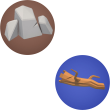
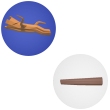
New initialization data cleanup New resources

diff --git a/api/initializeTestData.js b/api/initializeTestData.js
@@ -10,7 +10,7 @@ module.exports = async function (req, res) {
 
     console.log("Entering initializeTestData");
     var bodyjson = JSON.parse(req.body);
-    console.log("bodyjson = " + bodyjson);
+    // console.log("bodyjson = " + bodyjson);
     var player = bodyjson.player;
     console.log("player = " + player);
     // var resourceId = bodyjson.resourceId;
@@ -30,72 +30,132 @@ module.exports = async function (req, res) {
     var dciContract = await Contracts.DecentracraftItem;//.deployed();
     var mockRNGContract = await Contracts.MockRNG;//.deployed();
 
+    
+    //Send ethers to rng contract 
+    var sendEthersresult = await Contracts.sendEthers(dciContract.options.address, ownerKey, "0.5");
+    // console.log("Ethers sent = " + sendEthersresult);   
+
+    ////////////***************************************************************************           Resources */
     var createFunction = await decentracraftWorld.methods.create('', false);
     var result = await Contracts.sendTransaction(decentracraftWorld, createFunction, ownerKey);
-    // console.log(result);
     let woodTypeID = extractTokenID(result);
     console.log("Wood ID = " + woodTypeID);
     result = await Contracts.sendTransaction(decentracraftWorld, createFunction, ownerKey);
-    // console.log(result);
-    let resourceTypeID = extractTokenID(result);
-    console.log("Rock ID = " + resourceTypeID);
+    let rockTypeID = extractTokenID(result);
+    console.log("Rock ID = " + rockTypeID);
     result = await Contracts.sendTransaction(decentracraftWorld, createFunction, ownerKey);
-    // console.log(result);
-    resourceTypeID = extractTokenID(result);
-    console.log("Gold ID = " + resourceTypeID);
+    let goldTypeID = extractTokenID(result);
+    console.log("Gold ID = " + goldTypeID);
     result = await Contracts.sendTransaction(decentracraftWorld, createFunction, ownerKey);
-    // console.log(result);
-    resourceTypeID = extractTokenID(result);
-    console.log("Diamond ID = " + resourceTypeID);
+    let diamondTypeID = extractTokenID(result);
+    console.log("Diamond ID = " + diamondTypeID);
     result = await Contracts.sendTransaction(decentracraftWorld, createFunction, ownerKey);
-    // console.log(result);
-    resourceTypeID = extractTokenID(result);
-    console.log("Silicon ID = " + resourceTypeID);
+    let siliconTypeID = extractTokenID(result);
+    console.log("Silicon ID = " + siliconTypeID);
+    result = await Contracts.sendTransaction(decentracraftWorld, createFunction, ownerKey);
+    let ironTypeID = extractTokenID(result);
+    console.log("Iron ID = " + ironTypeID);
 
+    createFunction = await decentracraftWorld.methods.setDailySupply(woodTypeID, 2000);
+    result = await Contracts.sendTransaction(decentracraftWorld, createFunction, ownerKey);
+    createFunction = await decentracraftWorld.methods.setDailySupply(rockTypeID, 1500);
+    result = await Contracts.sendTransaction(decentracraftWorld, createFunction, ownerKey);
+    createFunction = await decentracraftWorld.methods.setDailySupply(ironTypeID, 900);
+    result = await Contracts.sendTransaction(decentracraftWorld, createFunction, ownerKey);
+    createFunction = await decentracraftWorld.methods.setDailySupply(goldTypeID, 70);
+    result = await Contracts.sendTransaction(decentracraftWorld, createFunction, ownerKey);
+    createFunction = await decentracraftWorld.methods.setDailySupply(diamondTypeID, 15);
+    result = await Contracts.sendTransaction(decentracraftWorld, createFunction, ownerKey);
+    createFunction = await decentracraftWorld.methods.setDailySupply(siliconTypeID, 400);
+    result = await Contracts.sendTransaction(decentracraftWorld, createFunction, ownerKey);
+
+    ////////////***************************************************************************           Items */
     let hammerUri = ServerPublicURL + 'hammer.json';
     createFunction = await decentracraftWorld.methods.create(hammerUri, true);
     result = await Contracts.sendTransaction(decentracraftWorld, createFunction, ownerKey);
-    // console.log(result);
     let hammerTypeID = extractTokenID(result);
     console.log("Hammer ID = " + hammerTypeID);
     
     let swordUri = ServerPublicURL + 'sword.json';
     createFunction = await decentracraftWorld.methods.create(swordUri, true);
     result = await Contracts.sendTransaction(decentracraftWorld, createFunction, ownerKey);
-    // console.log(result);
-    resourceTypeID = extractTokenID(result);
-    console.log("Sword ID = " + resourceTypeID);
+    let swordTypeID = extractTokenID(result);
+    console.log("Sword ID = " + swordTypeID);
     
     let stickUri = ServerPublicURL + 'stick.json';
     createFunction = await decentracraftWorld.methods.create(stickUri, true);
     result = await Contracts.sendTransaction(decentracraftWorld, createFunction, ownerKey);
-    // console.log(result);
-    resourceTypeID = extractTokenID(result);
-    console.log("Computer Chip ID = " + resourceTypeID);
+    let stickTypeID = extractTokenID(result);
+    console.log("Stick ID = " + stickTypeID);
 
-    createFunction = await decentracraftWorld.methods.setDailySupply(woodTypeID, 2000);
+    let axeUri = ServerPublicURL + 'axe.json';
+    createFunction = await decentracraftWorld.methods.create(axeUri, true);
+    result = await Contracts.sendTransaction(decentracraftWorld, createFunction, ownerKey);
+    let axeTypeID = extractTokenID(result);
+    console.log("Axe ID = " + axeTypeID);
+
+    let computerChipUri = ServerPublicURL + 'computerchip.json';
+    createFunction = await decentracraftWorld.methods.create(computerChipUri, true);
+    result = await Contracts.sendTransaction(decentracraftWorld, createFunction, ownerKey);
+    let computerChipTypeID = extractTokenID(result);
+    console.log("Computer Chip ID = " + computerChipTypeID);
+
+    let hammerAttributes = '{"strength": "6","power": "6","attack": "3","defense": "1","speed": "1"}';
+    let swordAttributes = '{"strength": "4","power": "3","attack": "6","defense": "3","speed": "5"}';
+    let stickAttributes = '{"strength": "1","power": "1","attack": "1","defense": "1","speed": "3"}';
+    let axeAttributes = '{"strength": "5","power": "5","attack": "4","defense": "1","speed": "2"}';
+    let computeChipAttributes = '{"frequency": "100","processors": "1","threads": "1","tdp": "200"}';
+
+    ////////////***************************************************************************           Packages */
+    //Create Common Resources Package
+    createFunction = await decentracraftWorld.methods.addResourcesPackage(web3.utils.toWei("0.5","ether"), [woodTypeID], [100]);
+    result = await Contracts.sendTransaction(decentracraftWorld, createFunction, ownerKey);
+    createFunction = await decentracraftWorld.methods.setResourcesNFTsMeta(0, [stickTypeID], [stickAttributes], [stickUri], [1000], [10]);
     result = await Contracts.sendTransaction(decentracraftWorld, createFunction, ownerKey);
 
-    let hammerAttributes = '{"attack": "6","defense": "1","speed": "1"}';
-    //Create Resource Package
-    createFunction = await decentracraftWorld.methods.addResourcesPackage(web3.utils.toWei("0.5","ether"), [woodTypeID], [1000]);
+    //Create Basic Resources Package
+    createFunction = await decentracraftWorld.methods.addResourcesPackage(web3.utils.toWei("0.9","ether"), [rockTypeID, ironTypeID], [60, 35]);
     result = await Contracts.sendTransaction(decentracraftWorld, createFunction, ownerKey);
-    // console.log(result);
-    createFunction = await decentracraftWorld.methods.setResourcesNFTsMeta(0, [hammerTypeID], [hammerAttributes], [hammerUri], [100000], [100]);
+    createFunction = await decentracraftWorld.methods.setResourcesNFTsMeta(1, [hammerTypeID, axeTypeID], [hammerAttributes, axeAttributes], 
+                                                                                    [hammerUri, axeUri], [200, 150], [5, 5]);
     result = await Contracts.sendTransaction(decentracraftWorld, createFunction, ownerKey);
-    // console.log(result);
 
+    //Create Valuable Resources Package
+    createFunction = await decentracraftWorld.methods.addResourcesPackage(web3.utils.toWei("1.7","ether"), [goldTypeID, diamondTypeID], [5, 1]);
+    result = await Contracts.sendTransaction(decentracraftWorld, createFunction, ownerKey);
+    createFunction = await decentracraftWorld.methods.setResourcesNFTsMeta(2, [swordTypeID], [swordAttributes], [swordUri], [80], [2]);
+    result = await Contracts.sendTransaction(decentracraftWorld, createFunction, ownerKey);
+
+    ////////////***************************************************************************           Reserve to wholesellers */
     createFunction = await decentracraftWorld.methods.reserveResources(0, reservedToPublicKey);
     result = await Contracts.sendTransaction(decentracraftWorld, createFunction, ownerKey);
-    // console.log(result);
 
+    createFunction = await decentracraftWorld.methods.reserveResources(1, reservedToPublicKey);
+    result = await Contracts.sendTransaction(decentracraftWorld, createFunction, ownerKey);
+
+    createFunction = await decentracraftWorld.methods.reserveResources(2, reservedToPublicKey);
+    result = await Contracts.sendTransaction(decentracraftWorld, createFunction, ownerKey);
+
+    ////////////***************************************************************************           Reward to player */
     var contractFunction = await decentracraftWorld.methods.rewardPlayer(0, rewardRatio, player);
-    result = await Contracts.sendTransaction(decentracraftWorld, contractFunction, reservedToKey);  
-    // console.log(result);
+    result = await Contracts.sendTransaction(decentracraftWorld, contractFunction, reservedToKey); 
     var queryID = extractQueryID(result);  
-    // console.log("queryID = " + queryID);
+    // console.log("queryID = " + queryID);    
+    contractFunction = await mockRNGContract.methods.randomReceived(queryID, 100000);
+    result = await Contracts.sendTransaction(mockRNGContract, contractFunction, ownerKey);   
     
-    contractFunction = await mockRNGContract.methods.randomReceived(queryID, 100);
+    contractFunction = await decentracraftWorld.methods.rewardPlayer(1, rewardRatio, player);
+    result = await Contracts.sendTransaction(decentracraftWorld, contractFunction, reservedToKey); 
+    queryID = extractQueryID(result);  
+    // console.log("queryID = " + queryID);    
+    contractFunction = await mockRNGContract.methods.randomReceived(queryID, 100000);
+    result = await Contracts.sendTransaction(mockRNGContract, contractFunction, ownerKey);   
+    
+    contractFunction = await decentracraftWorld.methods.rewardPlayer(2, rewardRatio, player);
+    result = await Contracts.sendTransaction(decentracraftWorld, contractFunction, reservedToKey); 
+    queryID = extractQueryID(result);  
+    // console.log("queryID = " + queryID);    
+    contractFunction = await mockRNGContract.methods.randomReceived(queryID, 100000);
     result = await Contracts.sendTransaction(mockRNGContract, contractFunction, ownerKey);   
     
     res.json(result);

diff --git a/app/contracts.js b/app/contracts.js
@@ -62,11 +62,6 @@ var abis = [];
 exports.loadContracts = async function loadContracts(){
     console.log("Entering loadContracts");
     networkId = await web3.eth.net.getId();
-    // networkName = await web3.eth.net.getName();
-    // console.log("networkName = " + networkName + " , networkId = " + networkId);
-    // Load contracts from build
-    // console.log("buildFiles size = " + buildFiles.length);
-    // buildFiles.forEach(abiFile => {
     for(var i=0; i < buildFiles.length; i++){
         var abiFile = buildFiles[i];
         // console.log("abiFile = " + abiFile);
@@ -86,28 +81,8 @@ exports.loadContracts = async function loadContracts(){
         const deployedAddress = contractABI.networks[networkId].address;
         console.log("Contract " + contractABI.contractName + " address = " + deployedAddress);
 
-        // var contract = Contract(contractABI);
-        // contract.setProvider(provider);
-        // // contract.setNetwork(networkId);
-        // contract.detectNetwork();
-        // var contractObj = await contract.deployed();
-
-        // console.log("Contract address = " + contract.address);
-        // var contractObj = Contract(contractABI);
         var contractObj = new web3.eth.Contract(contractABI.abi, deployedAddress, {from:ownerAccount.address});
-
-        //contractObj.setProvider(provider);
-        //console.log("Contract Obj address = " + contractObj.address);
-        //dirty hack for web3@1.0.0 support for localhost testrpc, see https://github.com/trufflesuite/truffle-contract/issues/56#issuecomment-331084530
-        // if (typeof contractObj.currentProvider.sendAsync !== "function") {
-        //     contractObj.currentProvider.sendAsync = function() {
-        //         return contractObj.currentProvider.send.apply(
-        //             contractObj.currentProvider, arguments
-        //         );
-        //     };
-        // }
         
-        //contractObj.detectNetwork();
         exports[abiFile.split(".")[0]] = contractObj;
     }
 }
@@ -155,5 +130,42 @@ async function sendTransaction(contract, contractFunction, ownerKey, value="0"){
     // console.log(parsedLogs);
     return parsedLogs;
 }
-
 exports.sendTransaction = sendTransaction;
+
+async function sendEthers(address, ownerKey, value){
+    
+    // console.log("Sending Transaction");
+    var ownerAccount = await web3.eth.accounts.privateKeyToAccount(ownerKey);
+    // console.log("ownerAccount.address: " + ownerAccount.address);
+    let nonce = await web3.eth.getTransactionCount(ownerAccount.address);
+    // console.log("Nonce: " + nonce);
+
+    let estimatedGas = 3000000;
+    // console.log("Estimated Gas: " + estimatedGas);
+
+    let gasPrice = await web3.eth.getGasPrice();
+    // console.log("Gas Price : " + gasPrice); 
+
+    const txParams = {
+        chainId: networkId,
+        "gasPrice": web3.utils.toHex(gasPrice),
+        "gasLimit": web3.utils.toHex(estimatedGas),
+        "to": address,
+        "from": ownerAccount.address,
+        "value": web3.utils.toHex(web3.utils.toWei(value,"ether")),
+        "nonce": '0x' + nonce.toString(16)
+    };
+    
+    const tx = new Tx(txParams, {'chain':'ropsten'});//, hardfork: 'constantinople'});
+    const privateKeyBuffer = Buffer.from(ownerKey.split("0x")[1], 'hex');
+    tx.sign(privateKeyBuffer); // Transaction Signing here
+
+    const serializedTx = tx.serialize();
+
+    let receipt = await web3.eth.sendSignedTransaction('0x' + serializedTx.toString('hex'));//, {from: ownerAccount.address});//, value: web3.utils.toHex(web3.utils.toWei("0.1","ether"))});    
+    const txdecoder = new LogDecoder.LogDecoder(abis);
+    const parsedLogs = txdecoder.decodeLogs(receipt.logs);
+    // console.log(parsedLogs);
+    return parsedLogs;
+}
+exports.sendEthers = sendEthers;

diff --git a/migrations/2_deploy_contracts.js b/migrations/2_deploy_contracts.js
@@ -5,18 +5,7 @@ var ProvableRNG = artifacts.require("./Utils/ProvableRNG.sol");
 var MockRNG = artifacts.require("./Utils/MockRNG.sol");
 
 module.exports = function(deployer) {
-  //var dci = await deployer.deploy(DecentracraftItem);
-  //deployer.deploy(Decentracraft, dci);
-
-  // var dci = await DecentracraftItem.new();//deployer.deploy(DecentracraftItem);
-  // var dcc = await Decentracraft.new(dci);//deployer.deploy(Decentracraft, dci);
-  // var rng = await ProvableRNG.new(ProvableRNG);//deployer.deploy(ProvableRNG);
-  // var dccworld = await DecentracraftWorld.new(dcc, rng);//deployer.deploy(DecentracraftWorld, dcc, rng);
-  // await dcc.setOwner(dccworld);
-
   process.env.NETWORK = deployer.network;
-  
-  // console.log("deployer.network = " + deployer.network);
 
   deployer.deploy(DecentracraftItem).then(function() {
     return DecentracraftItem.deployed();
@@ -35,7 +24,6 @@ module.exports = function(deployer) {
       return deployer.deploy(ProvableRNG);
     }
   }).then(function() {
-    // console.log("Decentracraft = " + Decentracraft.address);
     if(deployer.network != "ropsten"){
       console.log("MockRNG = " + MockRNG.address);
       return deployer.deploy(DecentracraftWorld, Decentracraft.address, MockRNG.address);
@@ -48,8 +36,6 @@ module.exports = function(deployer) {
     console.log("DecentracraftWorld = " + DecentracraftWorld.address);
     return Decentracraft.deployed();
   }).then(function(instance){
-    // console.log("Decentracraft = " + instance.address);
-    // console.log("DecentracraftWorld = " + DecentracraftWorld.address);
     instance.setOwner(DecentracraftWorld.address);
 
     return DecentracraftWorld.deployed();

diff --git a/api/userResources.js b/api/userResources.js
@@ -4,26 +4,19 @@ const { ServerPublicURL } = require('../app/contracts.js');
 
 const Contracts = require('../app/contracts.js');
 
-// Get resources packages listed for wholesale
+// Get resources owned by user
 module.exports = async function (req, res) {
     
     await Contracts.loadContracts();
 
     console.log("Entering userResources");
-    // console.log("req = " + req);
-    // console.log("req.method = " + req.method);
-
-    console.log("req.body = " + req.body);
     var bodyjson = JSON.parse(req.body);
-    // console.log("bodyjson = " + bodyjson);
     var player = bodyjson.player;
     console.log("player = " + player);
-    // var accounts = await Contracts.web3.eth.getAccounts();
-    var user1 = Contracts.ownerAccount;//accounts[0];
-    //console.log("Account 0 = " + user1);
+    var user1 = Contracts.ownerAccount;
 
-    var mainContract = await Contracts.Decentracraft;//.deployed();
-    var dciContract = await Contracts.DecentracraftItem;//.deployed();
+    var mainContract = await Contracts.Decentracraft;
+    var dciContract = await Contracts.DecentracraftItem;
     
     var tokensjson = {
         tokens: [],
